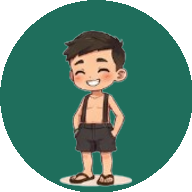
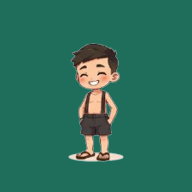
Fix phone layout clipping and make the game an installable PWA
- Use 100dvh (with 100vh fallback) plus safe-area-inset padding on
  #stage instead of a bare 100vh, so mobile browser toolbars and
  notches/home-indicators no longer push the bottom of the page out of
  the visible area.
- Replace the width-based "stack sidebar below scene" breakpoint (which
  fired for any phone in landscape narrower than 760px, leaving too
  little height for either half) with a side-by-side layout that just
  narrows the sidebar, plus a max-height compaction pass that shrinks
  padding/fonts/controls so everything fits on short landscape screens
  without being clipped.
- Regenerate the app icon/favicon with an edge-to-edge background so
  they work correctly as maskable icons, and declare "any"+"maskable"
  purposes plus id/scope/display_override in manifest.json.
- Add a service worker (offline app-shell precache + runtime caching)
  and register it — combined with the existing manifest, this makes the
  game installable ("Add to Home Screen"/desktop install) rather than
  just a bookmarked tab.
- Add iOS-specific "Add to Home Screen" meta tags and viewport-fit=cover
  so the safe-area insets actually take effect.

diff --git a/style.css b/style.css
@@ -3,6 +3,7 @@
 html, body {
   margin: 0;
   height: 100%;
+  height: 100dvh;
   background: #16241d;
   font-family: -apple-system, "Segoe UI", Roboto, sans-serif;
   color: #2b2318;
@@ -12,9 +13,18 @@ html, body {
 #stage {
   position: relative;
   width: 100vw;
+  /* 100vh is the *largest* possible viewport on mobile (toolbars hidden);
+     100dvh tracks the actual visible height as the browser chrome shows
+     and hides, so the bottom of the page doesn't end up cut off behind
+     it. Falls back to 100vh on browsers that don't know dvh. */
   height: 100vh;
+  height: 100dvh;
   display: flex;
   background: #efe6d4;
+  /* Keep content clear of notches / the home-indicator area on phones,
+     in whichever edge they land on once locked to landscape. */
+  padding: env(safe-area-inset-top) env(safe-area-inset-right) env(safe-area-inset-bottom) env(safe-area-inset-left);
+  box-sizing: border-box;
 }
 
 /* --- scene (fills remaining space) --------------------------------------- */
@@ -644,24 +654,44 @@ html, body {
 #travelBarTrack { position: relative; width: 60%; height: 8px; border-radius: 5px; background: rgba(255,255,255,0.18); overflow: hidden; }
 #travelBarFill { height: 100%; width: 0%; background: linear-gradient(90deg, #d9ae55, #c6963a); }
 
-/* --- narrow viewports: stack sidebar below the scene -------------------- */
+/* --- narrow / short viewports (phones) ----------------------------------
+   Portrait phones show the rotate-to-landscape prompt instead of #stage
+   (see below), so anything narrow here is a phone already in landscape —
+   keep the scene and sidebar side by side and just make the sidebar
+   slimmer, rather than stacking them, which left too little height for
+   either and cut content off at the bottom. */
 
 @media (max-width: 760px) {
-  #stage { flex-direction: column; }
-  #sceneWrap { flex: 1 1 auto; min-height: 0; }
   #sidebar {
-    width: 100%;
-    min-width: 0;
-    max-height: 46vh;
-    border-left: none;
-    border-top: 1px solid rgba(43,35,24,0.18);
+    width: min(230px, 42vw);
+    min-width: 180px;
+    padding: 8px;
   }
-  #bagGrid, .itemGrid { grid-template-columns: repeat(3, 1fr); }
-  #dpad { bottom: 8%; }
+  #bagGrid, .itemGrid { grid-template-columns: repeat(2, 1fr); }
 }
 
-@media (max-width: 420px) {
-  #bagGrid, .itemGrid { grid-template-columns: repeat(2, 1fr); }
+/* Short landscape height (most phones) — compact the vertical rhythm so
+   the whole sidebar fits without anything being clipped at the bottom;
+   #panels still scrolls internally as a safety net besides. */
+@media (max-height: 430px) {
+  #sidebar { padding: 6px; gap: 6px; }
+  #hud { gap: 4px; }
+  #coinPanel, #streakPanel, #energyPanel { padding: 3px 8px; font-size: 11px; }
+  #energyPanel .bar { width: 40px; }
+  #tabs { gap: 4px; }
+  .tabBtn { padding: 5px 4px; font-size: 10.5px; }
+  #bubbleBar { gap: 6px; padding-bottom: 5px; }
+  .bubble { width: 36px; height: 36px; }
+  .bubbleWrap { gap: 2px; }
+  .bubbleWrap .label { font-size: 8.5px; }
+  .card { padding: 6px 7px; gap: 4px; margin-bottom: 5px; }
+  .card h3 { font-size: 11px; }
+  .card p { font-size: 9px; }
+  .btn { padding: 5px 10px; font-size: 10.5px; }
+  .btn.small { padding: 4px 8px; font-size: 9.5px; }
+  #walkHint { font-size: 10px; padding: 3px 0; }
+  #dpad { bottom: 3%; gap: 12px; }
+  #dpad button { width: 40px; height: 40px; font-size: 17px; }
 }
 
 /* --- rotate-to-landscape prompt (phones only) --------------------------- */

diff --git a/service-worker.js b/service-worker.js
@@ -1,0 +1,42 @@
+// Minimal offline-capable service worker: precache the app shell, then
+// cache everything else (art, sfx) the first time it's fetched so the
+// game keeps working without a connection once it's been opened once.
+var CACHE_NAME = "arus-kerala-v1";
+var CORE_ASSETS = ["./", "./index.html", "./style.css", "./game.js", "./manifest.json"];
+
+self.addEventListener("install", function (event) {
+  event.waitUntil(
+    caches.open(CACHE_NAME)
+      .then(function (cache) { return cache.addAll(CORE_ASSETS); })
+      .then(function () { return self.skipWaiting(); })
+  );
+});
+
+self.addEventListener("activate", function (event) {
+  event.waitUntil(
+    caches.keys()
+      .then(function (keys) {
+        return Promise.all(keys.filter(function (k) { return k !== CACHE_NAME; }).map(function (k) { return caches.delete(k); }));
+      })
+      .then(function () { return self.clients.claim(); })
+  );
+});
+
+self.addEventListener("fetch", function (event) {
+  if (event.request.method !== "GET") return;
+  var url = new URL(event.request.url);
+  if (url.origin !== self.location.origin) return;
+
+  event.respondWith(
+    caches.match(event.request).then(function (cached) {
+      var networkFetch = fetch(event.request).then(function (response) {
+        if (response && response.status === 200) {
+          var copy = response.clone();
+          caches.open(CACHE_NAME).then(function (cache) { cache.put(event.request, copy); });
+        }
+        return response;
+      }).catch(function () { return cached; });
+      return cached || networkFetch;
+    })
+  );
+});

diff --git a/index.html b/index.html
@@ -2,8 +2,12 @@
 <html lang="en">
 <head>
 <meta charset="UTF-8">
-<meta name="viewport" content="width=device-width, initial-scale=1.0">
+<meta name="viewport" content="width=device-width, initial-scale=1.0, viewport-fit=cover">
 <meta name="theme-color" content="#1f6e5c">
+<meta name="mobile-web-app-capable" content="yes">
+<meta name="apple-mobile-web-app-capable" content="yes">
+<meta name="apple-mobile-web-app-status-bar-style" content="black-translucent">
+<meta name="apple-mobile-web-app-title" content="Aru's Kerala">
 <link rel="manifest" href="manifest.json">
 <link rel="icon" type="image/png" href="favicon.png">
 <link rel="apple-touch-icon" href="assets/icon-192.png">
@@ -102,5 +106,12 @@
   </div>
 
   <script src="game.js"></script>
+  <script>
+    if ("serviceWorker" in navigator) {
+      window.addEventListener("load", function () {
+        navigator.serviceWorker.register("service-worker.js").catch(function () {});
+      });
+    }
+  </script>
 </body>
 </html>
